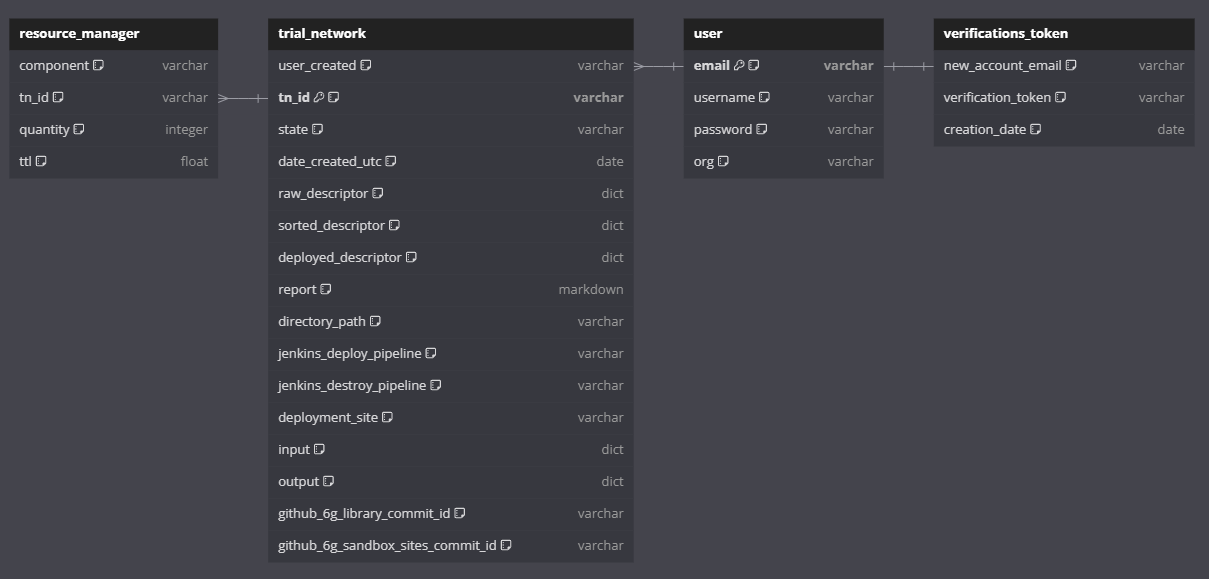
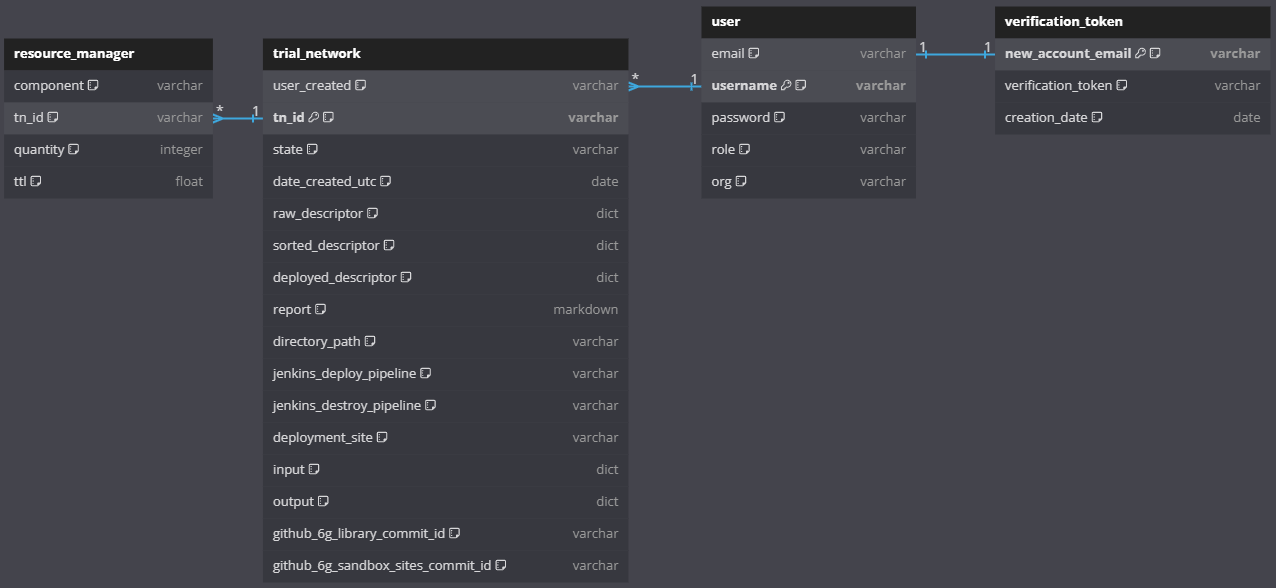
Fix: database schema

diff --git a/core/models/user.py b/core/models/user.py
@@ -5,7 +5,7 @@ class UserModel(Document):
         
     username = StringField(max_length=50, unique=True)
     password = StringField(max_length=255)
-    email = EmailField(max_length=50, unique=True)
+    email = EmailField(max_length=50)
     role = StringField(max_length=20, default="user")
     org = StringField(max_length=50)
 

diff --git a/docs/README.md b/docs/README.md
@@ -33,7 +33,7 @@ TNLCM has been designed as a modular application, with the intention of making c
 - [:page\_facing\_up: Trial Network Descriptor Schema](#page_facing_up-trial-network-descriptor-schema)
 - [:paperclip: Appendices](#paperclip-appendices)
   - [Appendix A: How to use Swagger UI](#appendix-a-how-to-use-swagger-ui)
-  - [Appendix B: Database Model](#appendix-b-database-model)
+  - [Appendix B: Database Schema](#appendix-b-database-schema)
   - [Appendix C: TNLCM OpenNebula Appliance](#appendix-c-tnlcm-opennebula-appliance)
 </details>
 
@@ -266,62 +266,63 @@ When the request is made, it will return another access token that will need to 
 
 <p align="right"><a href="#readme-top">Back to top&#x1F53C;</a></p>
 
-### Appendix B: Database Model
+### Appendix B: Database Schema
 
 TNLCM database, created with MongoDB, consists of several collections that store important information about `resource manager`, `trial network`, `user`, and `verification token`. Below is a description of each collection, along with a graphical representation using SQL syntax created with [dbdiagram.io](https://dbdiagram.io/).
 
 #### Collection `resource_manager` <!-- omit in toc -->
 
-| Field       | Type    | Description                                        |
-| ----------- | ------- | -------------------------------------------------- |
-| `component` | string  | Component over which resources are controlled.     |
-| `tn_id`     | string  | ID of the trial network.                           |
-| `quantity`  | integer | Amount of component available.                     |
-| `ttl`       | float   | Time the component can be used in a trial network. |
+| Field       | Type    | Description                                       |
+| ----------- | ------- | ------------------------------------------------- |
+| `component` | string  | Component over which resources are controlled     |
+| `tn_id`     | string  | ID of the trial network                           |
+| `quantity`  | integer | Amount of component available                     |
+| `ttl`       | float   | Time the component can be used in a trial network |
 
 #### Collection `trial_network` <!-- omit in toc -->
 
-| Field                               | Type     | Description                                 |
-| ----------------------------------- | -------- | ------------------------------------------- |
-| `user_created`                      | string   | User that created the trial network.        |
-| `tn_id`                             | string   | ID of the trial network. (primary key)      |
-| `state`                             | string   | State of the trial network.                 |
-| `date_created_utc`                  | date     | Creation date and time in UTC.              |
-| `raw_descriptor`                    | dict     | Raw descriptor of the trial network.        |
-| `sorted_descriptor`                 | dict     | Sorted descriptor.                          |
-| `deployed_descriptor`               | dict     | Current status of descriptor.               |
-| `report`                            | markdown | Report related to the trial network.        |
-| `directory_path`                    | string   | Directory where trial network is saved.     |
-| `jenkins_deploy_pipeline`           | string   | Pipeline for descriptor deployment.         |
-| `jenkins_destroy_pipeline`          | string   | Pipeline for destroying trial network.      |
-| `deployment_site`                   | string   | Deployment site of trial network.           |
-| `input`                             | dict     | YAML files per entity-name sent to Jenkins. |
-| `output`                            | dict     | JSON received by Jenkins per entity-name.   |
-| `github_6g_library_commit_id`       | string   | 6G-Library commit ID.                       |
-| `github_6g_sandbox_sites_commit_id` | string   | 6G-Sandbox-Sites commit ID.                 |
+| Field                               | Type     | Description                                |
+| ----------------------------------- | -------- | ------------------------------------------ |
+| `user_created`                      | string   | User that created the trial network        |
+| `tn_id`                             | string   | ID of the trial network (primary key)      |
+| `state`                             | string   | State of the trial network                 |
+| `date_created_utc`                  | date     | Creation date and time in UTC              |
+| `raw_descriptor`                    | dict     | Raw descriptor of the trial network        |
+| `sorted_descriptor`                 | dict     | Sorted descriptor                          |
+| `deployed_descriptor`               | dict     | Current status of descriptor               |
+| `report`                            | markdown | Report related to the trial network        |
+| `directory_path`                    | string   | Directory where trial network is saved     |
+| `jenkins_deploy_pipeline`           | string   | Pipeline for descriptor deployment         |
+| `jenkins_destroy_pipeline`          | string   | Pipeline for destroying trial network      |
+| `deployment_site`                   | string   | Deployment site of trial network           |
+| `input`                             | dict     | YAML files per entity-name sent to Jenkins |
+| `output`                            | dict     | JSON received by Jenkins per entity-name   |
+| `github_6g_library_commit_id`       | string   | 6G-Library commit ID                       |
+| `github_6g_sandbox_sites_commit_id` | string   | 6G-Sandbox-Sites commit ID                 |
 
 #### Collection `user` <!-- omit in toc -->
 
-| Field      | Type   | Description                         |
-| ---------- | ------ | ----------------------------------- |
-| `email`    | string | User's email address. (primary key) |
-| `username` | string | User's username.                    |
-| `password` | string | User's hashed password.             |
-| `org`      | string | Organization of the user.           |
+| Field      | Type   | Description                   |
+| ---------- | ------ | ----------------------------- |
+| `email`    | string | User's email address          |
+| `username` | string | User's username (primary key) |
+| `password` | string | User's hashed password        |
+| `role`     | string | User's role                   |
+| `org`      | string | User's organization           |
 
 #### Collection `verification_token` <!-- omit in toc -->
 
-| Field                | Type   | Description                              |
-| -------------------- | ------ | ---------------------------------------- |
-| `new_account_email`  | string | Email for the new account.               |
-| `verification_token` | string | Verification token for the account.      |
-| `creation_date`      | date   | Creation date of the verification token. |
+| Field                | Type   | Description                             |
+| -------------------- | ------ | --------------------------------------- |
+| `new_account_email`  | string | Email for the new account (primary key) |
+| `verification_token` | string | Verification token for the account      |
+| `creation_date`      | date   | Creation date of the verification token |
 
 #### Relationships <!-- omit in toc -->
 
 - `resource_manager.tn_id > trial_network.tn_id` // resource_manager references trial_network
-- `trial_network.user_created > user.email` // A user can have multiple trial_networks (one-to-many)
-- `verifications_token.new_account_email - user.email` // One-to-one relationship between verifications_token and user
+- `trial_network.user_created > user.username` // A user can have multiple trial_networks (one-to-many)
+- `verification_token.new_account_email - user.email` // One-to-one relationship between verification_token and user
 
 #### Model <!-- omit in toc -->
 

diff --git a/CHANGELOG.md b/CHANGELOG.md
@@ -13,6 +13,8 @@
 
 ### Changed
 
+- Rename collection `verification_tokens` to `verification_token` in MongoDB.
+
 ### Fixed
 
 - If an error occurs during TN creation, the created directory is now deleted to prevent inconsistencies.
